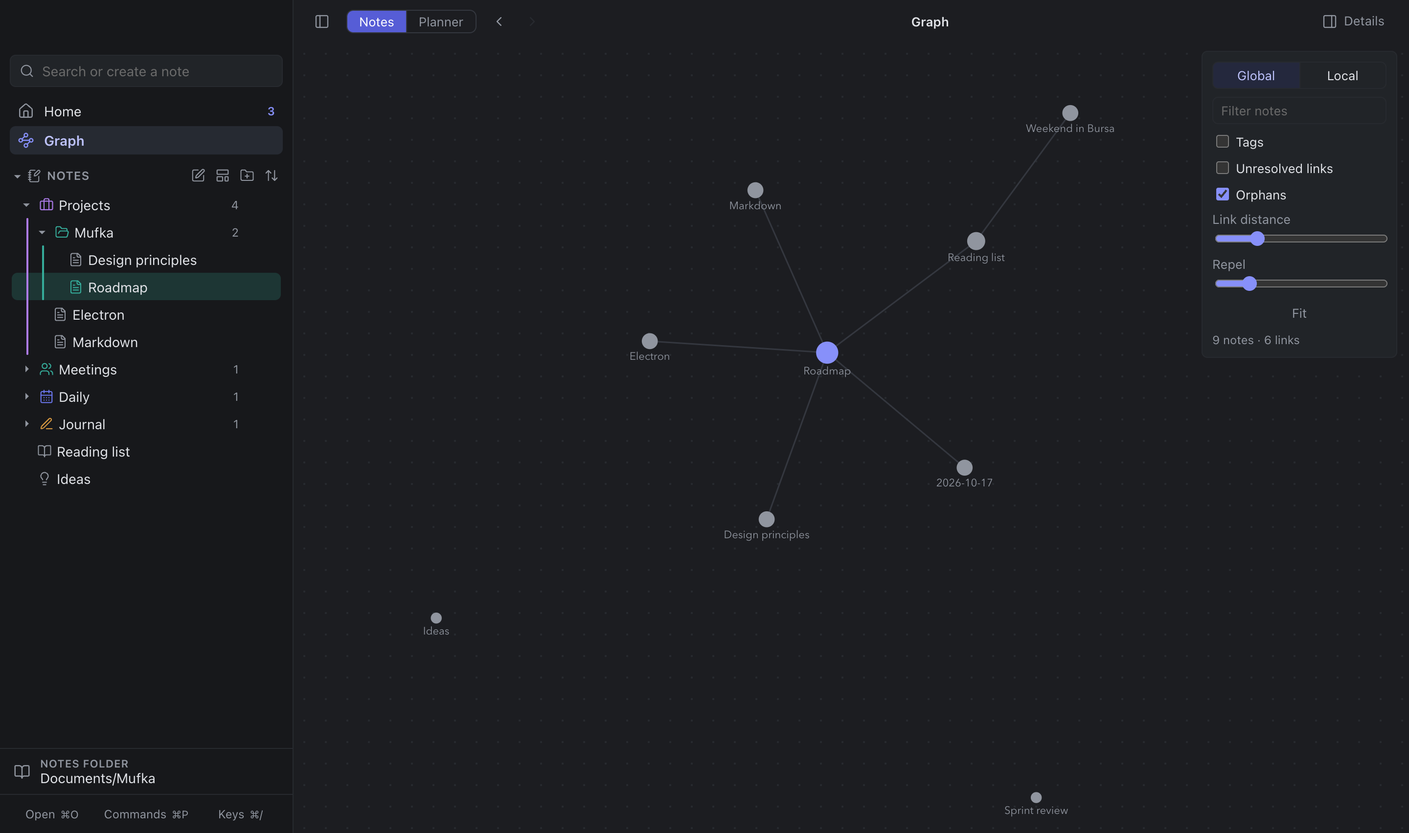
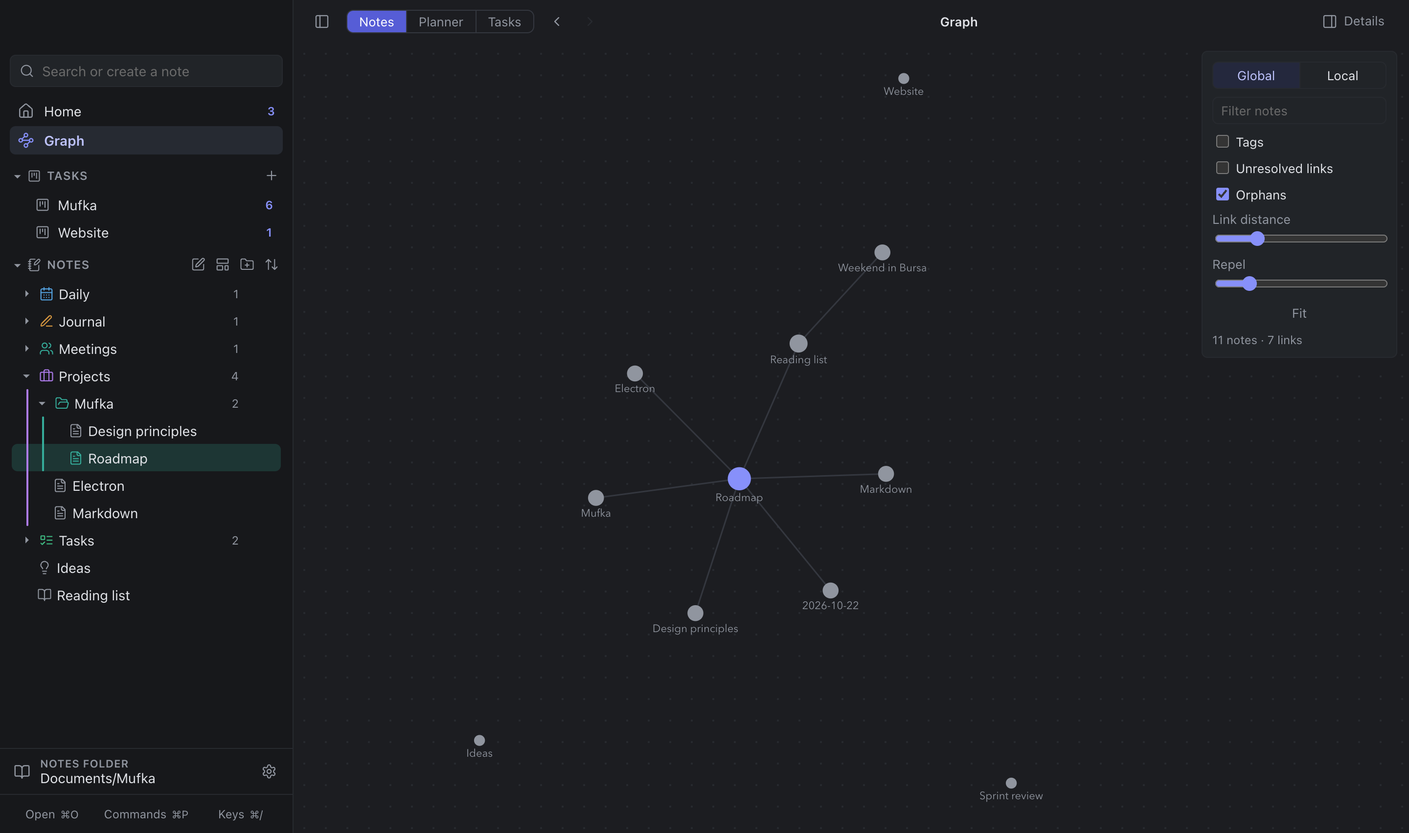
Settings next to the notes folder; new screenshots (1.6.1)
A gear beside the notes folder at the bottom of the sidebar opens
Settings, like Obsidian's vault switcher; Cmd+, still works.

Every README screenshot is taken again from the same made-up data, so
all of them show the current app: the Tasks mode and boards in the
sidebar, the gear. The command palette is shown under Graph.

diff --git a/src/icons.js b/src/icons.js
@@ -5,7 +5,7 @@
 //   icon(name, { size = 16, label }) → <svg>; aria-hidden unless a label is given.
 
 const SVG = 'http://www.w3.org/2000/svg';
-const ICONS = {"today":[["circle",{"cx":"12","cy":"12","r":"4"}],["path",{"d":"M12 2v2"}],["path",{"d":"M12 20v2"}],["path",{"d":"m4.93 4.93 1.41 1.41"}],["path",{"d":"m17.66 17.66 1.41 1.41"}],["path",{"d":"M2 12h2"}],["path",{"d":"M20 12h2"}],["path",{"d":"m6.34 17.66-1.41 1.41"}],["path",{"d":"m19.07 4.93-1.41 1.41"}]],"calendar":[["path",{"d":"M8 2v4"}],["path",{"d":"M16 2v4"}],["rect",{"width":"18","height":"18","x":"3","y":"4","rx":"2"}],["path",{"d":"M3 10h18"}],["path",{"d":"M8 14h.01"}],["path",{"d":"M12 14h.01"}],["path",{"d":"M16 14h.01"}],["path",{"d":"M8 18h.01"}],["path",{"d":"M12 18h.01"}],["path",{"d":"M16 18h.01"}]],"notes":[["path",{"d":"M13.4 2H6a2 2 0 0 0-2 2v16a2 2 0 0 0 2 2h12a2 2 0 0 0 2-2v-7.4"}],["path",{"d":"M2 6h4"}],["path",{"d":"M2 10h4"}],["path",{"d":"M2 14h4"}],["path",{"d":"M2 18h4"}],["path",{"d":"M21.378 5.626a1 1 0 1 0-3.004-3.004l-5.01 5.012a2 2 0 0 0-.506.854l-.837 2.87a.5.5 0 0 0 .62.62l2.87-.837a2 2 0 0 0 .854-.506z"}]],"graph":[["circle",{"cx":"12","cy":"4.5","r":"2.5"}],["path",{"d":"m10.2 6.3-3.9 3.9"}],["circle",{"cx":"4.5","cy":"12","r":"2.5"}],["path",{"d":"M7 12h10"}],["circle",{"cx":"19.5","cy":"12","r":"2.5"}],["path",{"d":"m13.8 17.7 3.9-3.9"}],["circle",{"cx":"12","cy":"19.5","r":"2.5"}]],"bookmark":[["path",{"d":"m19 21-7-4-7 4V5a2 2 0 0 1 2-2h10a2 2 0 0 1 2 2v16z"}]],"search":[["circle",{"cx":"11","cy":"11","r":"8"}],["path",{"d":"m21 21-4.3-4.3"}]],"newNote":[["path",{"d":"M12 3H5a2 2 0 0 0-2 2v14a2 2 0 0 0 2 2h14a2 2 0 0 0 2-2v-7"}],["path",{"d":"M18.375 2.625a1 1 0 0 1 3 3l-9.013 9.014a2 2 0 0 1-.853.505l-2.873.84a.5.5 0 0 1-.62-.62l.84-2.873a2 2 0 0 1 .506-.852z"}]],"newFolder":[["path",{"d":"M12 10v6"}],["path",{"d":"M9 13h6"}],["path",{"d":"M20 20a2 2 0 0 0 2-2V8a2 2 0 0 0-2-2h-7.9a2 2 0 0 1-1.69-.9L9.6 3.9A2 2 0 0 0 7.93 3H4a2 2 0 0 0-2 2v13a2 2 0 0 0 2 2Z"}]],"sidebar":[["rect",{"width":"18","height":"18","x":"3","y":"3","rx":"2"}],["path",{"d":"M9 3v18"}]],"details":[["rect",{"width":"18","height":"18","x":"3","y":"3","rx":"2"}],["path",{"d":"M15 3v18"}]],"back":[["path",{"d":"m15 18-6-6 6-6"}]],"forward":[["path",{"d":"m9 18 6-6-6-6"}]],"copy":[["rect",{"width":"14","height":"14","x":"8","y":"8","rx":"2","ry":"2"}],["path",{"d":"M4 16c-1.1 0-2-.9-2-2V4c0-1.1.9-2 2-2h10c1.1 0 2 .9 2 2"}]],"more":[["circle",{"cx":"12","cy":"12","r":"1"}],["circle",{"cx":"19","cy":"12","r":"1"}],["circle",{"cx":"5","cy":"12","r":"1"}]],"command":[["path",{"d":"M15 6v12a3 3 0 1 0 3-3H6a3 3 0 1 0 3 3V6a3 3 0 1 0-3 3h12a3 3 0 1 0-3-3"}]],"keyboard":[["path",{"d":"M10 8h.01"}],["path",{"d":"M12 12h.01"}],["path",{"d":"M14 8h.01"}],["path",{"d":"M16 12h.01"}],["path",{"d":"M18 8h.01"}],["path",{"d":"M6 8h.01"}],["path",{"d":"M7 16h10"}],["path",{"d":"M8 12h.01"}],["rect",{"width":"20","height":"16","x":"2","y":"4","rx":"2"}]],"folder":[["path",{"d":"M20 20a2 2 0 0 0 2-2V8a2 2 0 0 0-2-2h-7.9a2 2 0 0 1-1.69-.9L9.6 3.9A2 2 0 0 0 7.93 3H4a2 2 0 0 0-2 2v13a2 2 0 0 0 2 2Z"}]],"folderOpen":[["path",{"d":"m6 14 1.5-2.9A2 2 0 0 1 9.24 10H20a2 2 0 0 1 1.94 2.5l-1.54 6a2 2 0 0 1-1.95 1.5H4a2 2 0 0 1-2-2V5a2 2 0 0 1 2-2h3.9a2 2 0 0 1 1.69.9l.81 1.2a2 2 0 0 0 1.67.9H18a2 2 0 0 1 2 2v2"}]],"open":[["path",{"d":"M21 6H3"}],["path",{"d":"M10 12H3"}],["path",{"d":"M10 18H3"}],["circle",{"cx":"17","cy":"15","r":"3"}],["path",{"d":"m21 19-1.9-1.9"}]],"tag":[["line",{"x1":"4","x2":"20","y1":"9","y2":"9"}],["line",{"x1":"4","x2":"20","y1":"15","y2":"15"}],["line",{"x1":"10","x2":"8","y1":"3","y2":"21"}],["line",{"x1":"16","x2":"14","y1":"3","y2":"21"}]],"outline":[["path",{"d":"M21 12h-8"}],["path",{"d":"M21 6H8"}],["path",{"d":"M21 18h-8"}],["path",{"d":"M3 6v4c0 1.1.9 2 2 2h3"}],["path",{"d":"M3 10v6c0 1.1.9 2 2 2h3"}]],"link":[["path",{"d":"M9 17H7A5 5 0 0 1 7 7h2"}],["path",{"d":"M15 7h2a5 5 0 1 1 0 10h-2"}],["line",{"x1":"8","x2":"16","y1":"12","y2":"12"}]],"vault":[["path",{"d":"M12 7v14"}],["path",{"d":"M3 18a1 1 0 0 1-1-1V4a1 1 0 0 1 1-1h5a4 4 0 0 1 4 4 4 4 0 0 1 4-4h5a1 1 0 0 1 1 1v13a1 1 0 0 1-1 1h-6a3 3 0 0 0-3 3 3 3 0 0 0-3-3z"}]],"check":[["path",{"d":"M20 6 9 17l-5-5"}]],"plus":[["path",{"d":"M5 12h14"}],["path",{"d":"M12 5v14"}]],"repeat":[["path",{"d":"m17 2 4 4-4 4"}],["path",{"d":"M3 11v-1a4 4 0 0 1 4-4h14"}],["path",{"d":"m7 22-4-4 4-4"}],["path",{"d":"M21 13v1a4 4 0 0 1-4 4H3"}]],"planDay":[["path",{"d":"M8 2v4"}],["path",{"d":"M16 2v4"}],["path",{"d":"M21 13V6a2 2 0 0 0-2-2H5a2 2 0 0 0-2 2v14a2 2 0 0 0 2 2h8"}],["path",{"d":"M3 10h18"}],["path",{"d":"M16 19h6"}],["path",{"d":"M19 16v6"}]],"arrowRight":[["path",{"d":"M5 12h14"}],["path",{"d":"m12 5 7 7-7 7"}]],"home":[["path",{"d":"M15 21v-8a1 1 0 0 0-1-1h-4a1 1 0 0 0-1 1v8"}],["path",{"d":"M3 10a2 2 0 0 1 .709-1.528l7-5.999a2 2 0 0 1 2.582 0l7 5.999A2 2 0 0 1 21 10v9a2 2 0 0 1-2 2H5a2 2 0 0 1-2-2z"}]],"sort":[["path",{"d":"m21 16-4 4-4-4"}],["path",{"d":"M17 20V4"}],["path",{"d":"m3 8 4-4 4 4"}],["path",{"d":"M7 4v16"}]],"refresh":[["path",{"d":"M3 12a9 9 0 0 1 9-9 9.75 9.75 0 0 1 6.74 2.74L21 8"}],["path",{"d":"M21 3v5h-5"}],["path",{"d":"M21 12a9 9 0 0 1-9 9 9.75 9.75 0 0 1-6.74-2.74L3 16"}],["path",{"d":"M8 16H3v5"}]],"tiFileText":[["path",{"d":"M15 2H6a2 2 0 0 0-2 2v16a2 2 0 0 0 2 2h12a2 2 0 0 0 2-2V7Z"}],["path",{"d":"M14 2v4a2 2 0 0 0 2 2h4"}],["path",{"d":"M10 9H8"}],["path",{"d":"M16 13H8"}],["path",{"d":"M16 17H8"}]],"tiStar":[["path",{"d":"M11.525 2.295a.53.53 0 0 1 .95 0l2.31 4.679a2.123 2.123 0 0 0 1.595 1.16l5.166.756a.53.53 0 0 1 .294.904l-3.736 3.638a2.123 2.123 0 0 0-.611 1.878l.882 5.14a.53.53 0 0 1-.771.56l-4.618-2.428a2.122 2.122 0 0 0-1.973 0L6.396 21.01a.53.53 0 0 1-.77-.56l.881-5.139a2.122 2.122 0 0 0-.611-1.879L2.16 9.795a.53.53 0 0 1 .294-.906l5.165-.755a2.122 2.122 0 0 0 1.597-1.16z"}]],"tiHeart":[["path",{"d":"M19 14c1.49-1.46 3-3.21 3-5.5A5.5 5.5 0 0 0 16.5 3c-1.76 0-3 .5-4.5 2-1.5-1.5-2.74-2-4.5-2A5.5 5.5 0 0 0 2 8.5c0 2.3 1.5 4.05 3 5.5l7 7Z"}]],"tiBriefcase":[["path",{"d":"M16 20V4a2 2 0 0 0-2-2h-4a2 2 0 0 0-2 2v16"}],["rect",{"width":"20","height":"14","x":"2","y":"6","rx":"2"}]],"tiBookOpen":[["path",{"d":"M12 7v14"}],["path",{"d":"M3 18a1 1 0 0 1-1-1V4a1 1 0 0 1 1-1h5a4 4 0 0 1 4 4 4 4 0 0 1 4-4h5a1 1 0 0 1 1 1v13a1 1 0 0 1-1 1h-6a3 3 0 0 0-3 3 3 3 0 0 0-3-3z"}]],"tiLightbulb":[["path",{"d":"M15 14c.2-1 .7-1.7 1.5-2.5 1-.9 1.5-2.2 1.5-3.5A6 6 0 0 0 6 8c0 1 .2 2.2 1.5 3.5.7.7 1.3 1.5 1.5 2.5"}],["path",{"d":"M9 18h6"}],["path",{"d":"M10 22h4"}]],"tiFlag":[["path",{"d":"M4 15s1-1 4-1 5 2 8 2 4-1 4-1V3s-1 1-4 1-5-2-8-2-4 1-4 1z"}],["line",{"x1":"4","x2":"4","y1":"22","y2":"15"}]],"tiUser":[["path",{"d":"M19 21v-2a4 4 0 0 0-4-4H9a4 4 0 0 0-4 4v2"}],["circle",{"cx":"12","cy":"7","r":"4"}]],"tiUsers":[["path",{"d":"M16 21v-2a4 4 0 0 0-4-4H6a4 4 0 0 0-4 4v2"}],["circle",{"cx":"9","cy":"7","r":"4"}],["path",{"d":"M22 21v-2a4 4 0 0 0-3-3.87"}],["path",{"d":"M16 3.13a4 4 0 0 1 0 7.75"}]],"tiCode":[["polyline",{"points":"16 18 22 12 16 6"}],["polyline",{"points":"8 6 2 12 8 18"}]],"tiMusic":[["path",{"d":"M9 18V5l12-2v13"}],["circle",{"cx":"6","cy":"18","r":"3"}],["circle",{"cx":"18","cy":"16","r":"3"}]],"tiCamera":[["path",{"d":"M14.5 4h-5L7 7H4a2 2 0 0 0-2 2v9a2 2 0 0 0 2 2h16a2 2 0 0 0 2-2V9a2 2 0 0 0-2-2h-3l-2.5-3z"}],["circle",{"cx":"12","cy":"13","r":"3"}]],"tiImage":[["rect",{"width":"18","height":"18","x":"3","y":"3","rx":"2","ry":"2"}],["circle",{"cx":"9","cy":"9","r":"2"}],["path",{"d":"m21 15-3.086-3.086a2 2 0 0 0-2.828 0L6 21"}]],"tiGlobe":[["circle",{"cx":"12","cy":"12","r":"10"}],["path",{"d":"M12 2a14.5 14.5 0 0 0 0 20 14.5 14.5 0 0 0 0-20"}],["path",{"d":"M2 12h20"}]],"tiMapPin":[["path",{"d":"M20 10c0 4.993-5.539 10.193-7.399 11.799a1 1 0 0 1-1.202 0C9.539 20.193 4 14.993 4 10a8 8 0 0 1 16 0"}],["circle",{"cx":"12","cy":"10","r":"3"}]],"tiPlane":[["path",{"d":"M17.8 19.2 16 11l3.5-3.5C21 6 21.5 4 21 3c-1-.5-3 0-4.5 1.5L13 8 4.8 6.2c-.5-.1-.9.1-1.1.5l-.3.5c-.2.5-.1 1 .3 1.3L9 12l-2 3H4l-1 1 3 2 2 3 1-1v-3l3-2 3.5 5.3c.3.4.8.5 1.3.3l.5-.2c.4-.3.6-.7.5-1.2z"}]],"tiCoffee":[["path",{"d":"M10 2v2"}],["path",{"d":"M14 2v2"}],["path",{"d":"M16 8a1 1 0 0 1 1 1v8a4 4 0 0 1-4 4H7a4 4 0 0 1-4-4V9a1 1 0 0 1 1-1h14a4 4 0 1 1 0 8h-1"}],["path",{"d":"M6 2v2"}]],"tiUtensils":[["path",{"d":"M3 2v7c0 1.1.9 2 2 2h4a2 2 0 0 0 2-2V2"}],["path",{"d":"M7 2v20"}],["path",{"d":"M21 15V2a5 5 0 0 0-5 5v6c0 1.1.9 2 2 2h3Zm0 0v7"}]],"tiDumbbell":[["path",{"d":"M14.4 14.4 9.6 9.6"}],["path",{"d":"M18.657 21.485a2 2 0 1 1-2.829-2.828l-1.767 1.768a2 2 0 1 1-2.829-2.829l6.364-6.364a2 2 0 1 1 2.829 2.829l-1.768 1.767a2 2 0 1 1 2.828 2.829z"}],["path",{"d":"m21.5 21.5-1.4-1.4"}],["path",{"d":"M3.9 3.9 2.5 2.5"}],["path",{"d":"M6.404 12.768a2 2 0 1 1-2.829-2.829l1.768-1.767a2 2 0 1 1-2.828-2.829l2.828-2.828a2 2 0 1 1 2.829 2.828l1.767-1.768a2 2 0 1 1 2.829 2.829z"}]],"tiGraduationCap":[["path",{"d":"M21.42 10.922a1 1 0 0 0-.019-1.838L12.83 5.18a2 2 0 0 0-1.66 0L2.6 9.08a1 1 0 0 0 0 1.832l8.57 3.908a2 2 0 0 0 1.66 0z"}],["path",{"d":"M22 10v6"}],["path",{"d":"M6 12.5V16a6 3 0 0 0 12 0v-3.5"}]],"tiWallet":[["path",{"d":"M19 7V4a1 1 0 0 0-1-1H5a2 2 0 0 0 0 4h15a1 1 0 0 1 1 1v4h-3a2 2 0 0 0 0 4h3a1 1 0 0 0 1-1v-2a1 1 0 0 0-1-1"}],["path",{"d":"M3 5v14a2 2 0 0 0 2 2h15a1 1 0 0 0 1-1v-4"}]],"tiShoppingCart":[["circle",{"cx":"8","cy":"21","r":"1"}],["circle",{"cx":"19","cy":"21","r":"1"}],["path",{"d":"M2.05 2.05h2l2.66 12.42a2 2 0 0 0 2 1.58h9.78a2 2 0 0 0 1.95-1.57l1.65-7.43H5.12"}]],"tiRocket":[["path",{"d":"M4.5 16.5c-1.5 1.26-2 5-2 5s3.74-.5 5-2c.71-.84.7-2.13-.09-2.91a2.18 2.18 0 0 0-2.91-.09z"}],["path",{"d":"m12 15-3-3a22 22 0 0 1 2-3.95A12.88 12.88 0 0 1 22 2c0 2.72-.78 7.5-6 11a22.35 22.35 0 0 1-4 2z"}],["path",{"d":"M9 12H4s.55-3.03 2-4c1.62-1.08 5 0 5 0"}],["path",{"d":"M12 15v5s3.03-.55 4-2c1.08-1.62 0-5 0-5"}]],"tiTarget":[["circle",{"cx":"12","cy":"12","r":"10"}],["circle",{"cx":"12","cy":"12","r":"6"}],["circle",{"cx":"12","cy":"12","r":"2"}]],"tiArchive":[["rect",{"width":"20","height":"5","x":"2","y":"3","rx":"1"}],["path",{"d":"M4 8v11a2 2 0 0 0 2 2h12a2 2 0 0 0 2-2V8"}],["path",{"d":"M10 12h4"}]],"tiInbox":[["polyline",{"points":"22 12 16 12 14 15 10 15 8 12 2 12"}],["path",{"d":"M5.45 5.11 2 12v6a2 2 0 0 0 2 2h16a2 2 0 0 0 2-2v-6l-3.45-6.89A2 2 0 0 0 16.76 4H7.24a2 2 0 0 0-1.79 1.11z"}]],"tiPenLine":[["path",{"d":"M12 20h9"}],["path",{"d":"M16.376 3.622a1 1 0 0 1 3.002 3.002L7.368 18.635a2 2 0 0 1-.855.506l-2.872.838a.5.5 0 0 1-.62-.62l.838-2.872a2 2 0 0 1 .506-.854z"}]],"tiSparkles":[["path",{"d":"M9.937 15.5A2 2 0 0 0 8.5 14.063l-6.135-1.582a.5.5 0 0 1 0-.962L8.5 9.936A2 2 0 0 0 9.937 8.5l1.582-6.135a.5.5 0 0 1 .963 0L14.063 8.5A2 2 0 0 0 15.5 9.937l6.135 1.581a.5.5 0 0 1 0 .964L15.5 14.063a2 2 0 0 0-1.437 1.437l-1.582 6.135a.5.5 0 0 1-.963 0z"}],["path",{"d":"M20 3v4"}],["path",{"d":"M22 5h-4"}],["path",{"d":"M4 17v2"}],["path",{"d":"M5 18H3"}]],"tiLeaf":[["path",{"d":"M11 20A7 7 0 0 1 9.8 6.1C15.5 5 17 4.48 19 2c1 2 2 4.18 2 8 0 5.5-4.78 10-10 10Z"}],["path",{"d":"M2 21c0-3 1.85-5.36 5.08-6C9.5 14.52 12 13 13 12"}]],"tiFlame":[["path",{"d":"M8.5 14.5A2.5 2.5 0 0 0 11 12c0-1.38-.5-2-1-3-1.072-2.143-.224-4.054 2-6 .5 2.5 2 4.9 4 6.5 2 1.6 3 3.5 3 5.5a7 7 0 1 1-14 0c0-1.153.433-2.294 1-3a2.5 2.5 0 0 0 2.5 2.5z"}]],"tiMic":[["path",{"d":"M12 2a3 3 0 0 0-3 3v7a3 3 0 0 0 6 0V5a3 3 0 0 0-3-3Z"}],["path",{"d":"M19 10v2a7 7 0 0 1-14 0v-2"}],["line",{"x1":"12","x2":"12","y1":"19","y2":"22"}]],"tiFilm":[["rect",{"width":"18","height":"18","x":"3","y":"3","rx":"2"}],["path",{"d":"M7 3v18"}],["path",{"d":"M3 7.5h4"}],["path",{"d":"M3 12h18"}],["path",{"d":"M3 16.5h4"}],["path",{"d":"M17 3v18"}],["path",{"d":"M17 7.5h4"}],["path",{"d":"M17 16.5h4"}]],"tiGamepad2":[["line",{"x1":"6","x2":"10","y1":"11","y2":"11"}],["line",{"x1":"8","x2":"8","y1":"9","y2":"13"}],["line",{"x1":"15","x2":"15.01","y1":"12","y2":"12"}],["line",{"x1":"18","x2":"18.01","y1":"10","y2":"10"}],["path",{"d":"M17.32 5H6.68a4 4 0 0 0-3.978 3.59c-.006.052-.01.101-.017.152C2.604 9.416 2 14.456 2 16a3 3 0 0 0 3 3c1 0 1.5-.5 2-1l1.414-1.414A2 2 0 0 1 9.828 16h4.344a2 2 0 0 1 1.414.586L17 18c.5.5 1 1 2 1a3 3 0 0 0 3-3c0-1.545-.604-6.584-.685-7.258-.007-.05-.011-.1-.017-.151A4 4 0 0 0 17.32 5z"}]],"tiPalette":[["circle",{"cx":"13.5","cy":"6.5","r":".5","fill":"currentColor"}],["circle",{"cx":"17.5","cy":"10.5","r":".5","fill":"currentColor"}],["circle",{"cx":"8.5","cy":"7.5","r":".5","fill":"currentColor"}],["circle",{"cx":"6.5","cy":"12.5","r":".5","fill":"currentColor"}],["path",{"d":"M12 2C6.5 2 2 6.5 2 12s4.5 10 10 10c.926 0 1.648-.746 1.648-1.688 0-.437-.18-.835-.437-1.125-.29-.289-.438-.652-.438-1.125a1.64 1.64 0 0 1 1.668-1.668h1.996c3.051 0 5.555-2.503 5.555-5.554C21.965 6.012 17.461 2 12 2z"}]],"tiCalendarDays":[["path",{"d":"M8 2v4"}],["path",{"d":"M16 2v4"}],["rect",{"width":"18","height":"18","x":"3","y":"4","rx":"2"}],["path",{"d":"M3 10h18"}],["path",{"d":"M8 14h.01"}],["path",{"d":"M12 14h.01"}],["path",{"d":"M16 14h.01"}],["path",{"d":"M8 18h.01"}],["path",{"d":"M12 18h.01"}],["path",{"d":"M16 18h.01"}]],"tiCircleCheck":[["circle",{"cx":"12","cy":"12","r":"10"}],["path",{"d":"m9 12 2 2 4-4"}]],"tiHouse":[["path",{"d":"M15 21v-8a1 1 0 0 0-1-1h-4a1 1 0 0 0-1 1v8"}],["path",{"d":"M3 10a2 2 0 0 1 .709-1.528l7-5.999a2 2 0 0 1 2.582 0l7 5.999A2 2 0 0 1 21 10v9a2 2 0 0 1-2 2H5a2 2 0 0 1-2-2z"}]],"tiListTodo":[["rect",{"x":"3","y":"5","width":"6","height":"6","rx":"1"}],["path",{"d":"m3 17 2 2 4-4"}],["path",{"d":"M13 6h8"}],["path",{"d":"M13 12h8"}],["path",{"d":"M13 18h8"}]],"tiBrain":[["path",{"d":"M12 5a3 3 0 1 0-5.997.125 4 4 0 0 0-2.526 5.77 4 4 0 0 0 .556 6.588A4 4 0 1 0 12 18Z"}],["path",{"d":"M12 5a3 3 0 1 1 5.997.125 4 4 0 0 1 2.526 5.77 4 4 0 0 1-.556 6.588A4 4 0 1 1 12 18Z"}],["path",{"d":"M15 13a4.5 4.5 0 0 1-3-4 4.5 4.5 0 0 1-3 4"}],["path",{"d":"M17.599 6.5a3 3 0 0 0 .399-1.375"}],["path",{"d":"M6.003 5.125A3 3 0 0 0 6.401 6.5"}],["path",{"d":"M3.477 10.896a4 4 0 0 1 .585-.396"}],["path",{"d":"M19.938 10.5a4 4 0 0 1 .585.396"}],["path",{"d":"M6 18a4 4 0 0 1-1.967-.516"}],["path",{"d":"M19.967 17.484A4 4 0 0 1 18 18"}]],"tiSun":[["circle",{"cx":"12","cy":"12","r":"4"}],["path",{"d":"M12 2v2"}],["path",{"d":"M12 20v2"}],["path",{"d":"m4.93 4.93 1.41 1.41"}],["path",{"d":"m17.66 17.66 1.41 1.41"}],["path",{"d":"M2 12h2"}],["path",{"d":"M20 12h2"}],["path",{"d":"m6.34 17.66-1.41 1.41"}],["path",{"d":"m19.07 4.93-1.41 1.41"}]],"kanban":[["rect",{"width":"18","height":"18","x":"3","y":"3","rx":"2"}],["path",{"d":"M8 7v7"}],["path",{"d":"M12 7v4"}],["path",{"d":"M16 7v9"}]],"template":[["rect",{"width":"18","height":"7","x":"3","y":"3","rx":"1"}],["rect",{"width":"9","height":"7","x":"3","y":"14","rx":"1"}],["rect",{"width":"5","height":"7","x":"16","y":"14","rx":"1"}]]};
+const ICONS = {"today":[["circle",{"cx":"12","cy":"12","r":"4"}],["path",{"d":"M12 2v2"}],["path",{"d":"M12 20v2"}],["path",{"d":"m4.93 4.93 1.41 1.41"}],["path",{"d":"m17.66 17.66 1.41 1.41"}],["path",{"d":"M2 12h2"}],["path",{"d":"M20 12h2"}],["path",{"d":"m6.34 17.66-1.41 1.41"}],["path",{"d":"m19.07 4.93-1.41 1.41"}]],"calendar":[["path",{"d":"M8 2v4"}],["path",{"d":"M16 2v4"}],["rect",{"width":"18","height":"18","x":"3","y":"4","rx":"2"}],["path",{"d":"M3 10h18"}],["path",{"d":"M8 14h.01"}],["path",{"d":"M12 14h.01"}],["path",{"d":"M16 14h.01"}],["path",{"d":"M8 18h.01"}],["path",{"d":"M12 18h.01"}],["path",{"d":"M16 18h.01"}]],"notes":[["path",{"d":"M13.4 2H6a2 2 0 0 0-2 2v16a2 2 0 0 0 2 2h12a2 2 0 0 0 2-2v-7.4"}],["path",{"d":"M2 6h4"}],["path",{"d":"M2 10h4"}],["path",{"d":"M2 14h4"}],["path",{"d":"M2 18h4"}],["path",{"d":"M21.378 5.626a1 1 0 1 0-3.004-3.004l-5.01 5.012a2 2 0 0 0-.506.854l-.837 2.87a.5.5 0 0 0 .62.62l2.87-.837a2 2 0 0 0 .854-.506z"}]],"graph":[["circle",{"cx":"12","cy":"4.5","r":"2.5"}],["path",{"d":"m10.2 6.3-3.9 3.9"}],["circle",{"cx":"4.5","cy":"12","r":"2.5"}],["path",{"d":"M7 12h10"}],["circle",{"cx":"19.5","cy":"12","r":"2.5"}],["path",{"d":"m13.8 17.7 3.9-3.9"}],["circle",{"cx":"12","cy":"19.5","r":"2.5"}]],"bookmark":[["path",{"d":"m19 21-7-4-7 4V5a2 2 0 0 1 2-2h10a2 2 0 0 1 2 2v16z"}]],"search":[["circle",{"cx":"11","cy":"11","r":"8"}],["path",{"d":"m21 21-4.3-4.3"}]],"newNote":[["path",{"d":"M12 3H5a2 2 0 0 0-2 2v14a2 2 0 0 0 2 2h14a2 2 0 0 0 2-2v-7"}],["path",{"d":"M18.375 2.625a1 1 0 0 1 3 3l-9.013 9.014a2 2 0 0 1-.853.505l-2.873.84a.5.5 0 0 1-.62-.62l.84-2.873a2 2 0 0 1 .506-.852z"}]],"newFolder":[["path",{"d":"M12 10v6"}],["path",{"d":"M9 13h6"}],["path",{"d":"M20 20a2 2 0 0 0 2-2V8a2 2 0 0 0-2-2h-7.9a2 2 0 0 1-1.69-.9L9.6 3.9A2 2 0 0 0 7.93 3H4a2 2 0 0 0-2 2v13a2 2 0 0 0 2 2Z"}]],"sidebar":[["rect",{"width":"18","height":"18","x":"3","y":"3","rx":"2"}],["path",{"d":"M9 3v18"}]],"details":[["rect",{"width":"18","height":"18","x":"3","y":"3","rx":"2"}],["path",{"d":"M15 3v18"}]],"back":[["path",{"d":"m15 18-6-6 6-6"}]],"forward":[["path",{"d":"m9 18 6-6-6-6"}]],"copy":[["rect",{"width":"14","height":"14","x":"8","y":"8","rx":"2","ry":"2"}],["path",{"d":"M4 16c-1.1 0-2-.9-2-2V4c0-1.1.9-2 2-2h10c1.1 0 2 .9 2 2"}]],"more":[["circle",{"cx":"12","cy":"12","r":"1"}],["circle",{"cx":"19","cy":"12","r":"1"}],["circle",{"cx":"5","cy":"12","r":"1"}]],"command":[["path",{"d":"M15 6v12a3 3 0 1 0 3-3H6a3 3 0 1 0 3 3V6a3 3 0 1 0-3 3h12a3 3 0 1 0-3-3"}]],"keyboard":[["path",{"d":"M10 8h.01"}],["path",{"d":"M12 12h.01"}],["path",{"d":"M14 8h.01"}],["path",{"d":"M16 12h.01"}],["path",{"d":"M18 8h.01"}],["path",{"d":"M6 8h.01"}],["path",{"d":"M7 16h10"}],["path",{"d":"M8 12h.01"}],["rect",{"width":"20","height":"16","x":"2","y":"4","rx":"2"}]],"folder":[["path",{"d":"M20 20a2 2 0 0 0 2-2V8a2 2 0 0 0-2-2h-7.9a2 2 0 0 1-1.69-.9L9.6 3.9A2 2 0 0 0 7.93 3H4a2 2 0 0 0-2 2v13a2 2 0 0 0 2 2Z"}]],"folderOpen":[["path",{"d":"m6 14 1.5-2.9A2 2 0 0 1 9.24 10H20a2 2 0 0 1 1.94 2.5l-1.54 6a2 2 0 0 1-1.95 1.5H4a2 2 0 0 1-2-2V5a2 2 0 0 1 2-2h3.9a2 2 0 0 1 1.69.9l.81 1.2a2 2 0 0 0 1.67.9H18a2 2 0 0 1 2 2v2"}]],"open":[["path",{"d":"M21 6H3"}],["path",{"d":"M10 12H3"}],["path",{"d":"M10 18H3"}],["circle",{"cx":"17","cy":"15","r":"3"}],["path",{"d":"m21 19-1.9-1.9"}]],"tag":[["line",{"x1":"4","x2":"20","y1":"9","y2":"9"}],["line",{"x1":"4","x2":"20","y1":"15","y2":"15"}],["line",{"x1":"10","x2":"8","y1":"3","y2":"21"}],["line",{"x1":"16","x2":"14","y1":"3","y2":"21"}]],"outline":[["path",{"d":"M21 12h-8"}],["path",{"d":"M21 6H8"}],["path",{"d":"M21 18h-8"}],["path",{"d":"M3 6v4c0 1.1.9 2 2 2h3"}],["path",{"d":"M3 10v6c0 1.1.9 2 2 2h3"}]],"link":[["path",{"d":"M9 17H7A5 5 0 0 1 7 7h2"}],["path",{"d":"M15 7h2a5 5 0 1 1 0 10h-2"}],["line",{"x1":"8","x2":"16","y1":"12","y2":"12"}]],"vault":[["path",{"d":"M12 7v14"}],["path",{"d":"M3 18a1 1 0 0 1-1-1V4a1 1 0 0 1 1-1h5a4 4 0 0 1 4 4 4 4 0 0 1 4-4h5a1 1 0 0 1 1 1v13a1 1 0 0 1-1 1h-6a3 3 0 0 0-3 3 3 3 0 0 0-3-3z"}]],"check":[["path",{"d":"M20 6 9 17l-5-5"}]],"plus":[["path",{"d":"M5 12h14"}],["path",{"d":"M12 5v14"}]],"repeat":[["path",{"d":"m17 2 4 4-4 4"}],["path",{"d":"M3 11v-1a4 4 0 0 1 4-4h14"}],["path",{"d":"m7 22-4-4 4-4"}],["path",{"d":"M21 13v1a4 4 0 0 1-4 4H3"}]],"planDay":[["path",{"d":"M8 2v4"}],["path",{"d":"M16 2v4"}],["path",{"d":"M21 13V6a2 2 0 0 0-2-2H5a2 2 0 0 0-2 2v14a2 2 0 0 0 2 2h8"}],["path",{"d":"M3 10h18"}],["path",{"d":"M16 19h6"}],["path",{"d":"M19 16v6"}]],"arrowRight":[["path",{"d":"M5 12h14"}],["path",{"d":"m12 5 7 7-7 7"}]],"home":[["path",{"d":"M15 21v-8a1 1 0 0 0-1-1h-4a1 1 0 0 0-1 1v8"}],["path",{"d":"M3 10a2 2 0 0 1 .709-1.528l7-5.999a2 2 0 0 1 2.582 0l7 5.999A2 2 0 0 1 21 10v9a2 2 0 0 1-2 2H5a2 2 0 0 1-2-2z"}]],"sort":[["path",{"d":"m21 16-4 4-4-4"}],["path",{"d":"M17 20V4"}],["path",{"d":"m3 8 4-4 4 4"}],["path",{"d":"M7 4v16"}]],"refresh":[["path",{"d":"M3 12a9 9 0 0 1 9-9 9.75 9.75 0 0 1 6.74 2.74L21 8"}],["path",{"d":"M21 3v5h-5"}],["path",{"d":"M21 12a9 9 0 0 1-9 9 9.75 9.75 0 0 1-6.74-2.74L3 16"}],["path",{"d":"M8 16H3v5"}]],"tiFileText":[["path",{"d":"M15 2H6a2 2 0 0 0-2 2v16a2 2 0 0 0 2 2h12a2 2 0 0 0 2-2V7Z"}],["path",{"d":"M14 2v4a2 2 0 0 0 2 2h4"}],["path",{"d":"M10 9H8"}],["path",{"d":"M16 13H8"}],["path",{"d":"M16 17H8"}]],"tiStar":[["path",{"d":"M11.525 2.295a.53.53 0 0 1 .95 0l2.31 4.679a2.123 2.123 0 0 0 1.595 1.16l5.166.756a.53.53 0 0 1 .294.904l-3.736 3.638a2.123 2.123 0 0 0-.611 1.878l.882 5.14a.53.53 0 0 1-.771.56l-4.618-2.428a2.122 2.122 0 0 0-1.973 0L6.396 21.01a.53.53 0 0 1-.77-.56l.881-5.139a2.122 2.122 0 0 0-.611-1.879L2.16 9.795a.53.53 0 0 1 .294-.906l5.165-.755a2.122 2.122 0 0 0 1.597-1.16z"}]],"tiHeart":[["path",{"d":"M19 14c1.49-1.46 3-3.21 3-5.5A5.5 5.5 0 0 0 16.5 3c-1.76 0-3 .5-4.5 2-1.5-1.5-2.74-2-4.5-2A5.5 5.5 0 0 0 2 8.5c0 2.3 1.5 4.05 3 5.5l7 7Z"}]],"tiBriefcase":[["path",{"d":"M16 20V4a2 2 0 0 0-2-2h-4a2 2 0 0 0-2 2v16"}],["rect",{"width":"20","height":"14","x":"2","y":"6","rx":"2"}]],"tiBookOpen":[["path",{"d":"M12 7v14"}],["path",{"d":"M3 18a1 1 0 0 1-1-1V4a1 1 0 0 1 1-1h5a4 4 0 0 1 4 4 4 4 0 0 1 4-4h5a1 1 0 0 1 1 1v13a1 1 0 0 1-1 1h-6a3 3 0 0 0-3 3 3 3 0 0 0-3-3z"}]],"tiLightbulb":[["path",{"d":"M15 14c.2-1 .7-1.7 1.5-2.5 1-.9 1.5-2.2 1.5-3.5A6 6 0 0 0 6 8c0 1 .2 2.2 1.5 3.5.7.7 1.3 1.5 1.5 2.5"}],["path",{"d":"M9 18h6"}],["path",{"d":"M10 22h4"}]],"tiFlag":[["path",{"d":"M4 15s1-1 4-1 5 2 8 2 4-1 4-1V3s-1 1-4 1-5-2-8-2-4 1-4 1z"}],["line",{"x1":"4","x2":"4","y1":"22","y2":"15"}]],"tiUser":[["path",{"d":"M19 21v-2a4 4 0 0 0-4-4H9a4 4 0 0 0-4 4v2"}],["circle",{"cx":"12","cy":"7","r":"4"}]],"tiUsers":[["path",{"d":"M16 21v-2a4 4 0 0 0-4-4H6a4 4 0 0 0-4 4v2"}],["circle",{"cx":"9","cy":"7","r":"4"}],["path",{"d":"M22 21v-2a4 4 0 0 0-3-3.87"}],["path",{"d":"M16 3.13a4 4 0 0 1 0 7.75"}]],"tiCode":[["polyline",{"points":"16 18 22 12 16 6"}],["polyline",{"points":"8 6 2 12 8 18"}]],"tiMusic":[["path",{"d":"M9 18V5l12-2v13"}],["circle",{"cx":"6","cy":"18","r":"3"}],["circle",{"cx":"18","cy":"16","r":"3"}]],"tiCamera":[["path",{"d":"M14.5 4h-5L7 7H4a2 2 0 0 0-2 2v9a2 2 0 0 0 2 2h16a2 2 0 0 0 2-2V9a2 2 0 0 0-2-2h-3l-2.5-3z"}],["circle",{"cx":"12","cy":"13","r":"3"}]],"tiImage":[["rect",{"width":"18","height":"18","x":"3","y":"3","rx":"2","ry":"2"}],["circle",{"cx":"9","cy":"9","r":"2"}],["path",{"d":"m21 15-3.086-3.086a2 2 0 0 0-2.828 0L6 21"}]],"tiGlobe":[["circle",{"cx":"12","cy":"12","r":"10"}],["path",{"d":"M12 2a14.5 14.5 0 0 0 0 20 14.5 14.5 0 0 0 0-20"}],["path",{"d":"M2 12h20"}]],"tiMapPin":[["path",{"d":"M20 10c0 4.993-5.539 10.193-7.399 11.799a1 1 0 0 1-1.202 0C9.539 20.193 4 14.993 4 10a8 8 0 0 1 16 0"}],["circle",{"cx":"12","cy":"10","r":"3"}]],"tiPlane":[["path",{"d":"M17.8 19.2 16 11l3.5-3.5C21 6 21.5 4 21 3c-1-.5-3 0-4.5 1.5L13 8 4.8 6.2c-.5-.1-.9.1-1.1.5l-.3.5c-.2.5-.1 1 .3 1.3L9 12l-2 3H4l-1 1 3 2 2 3 1-1v-3l3-2 3.5 5.3c.3.4.8.5 1.3.3l.5-.2c.4-.3.6-.7.5-1.2z"}]],"tiCoffee":[["path",{"d":"M10 2v2"}],["path",{"d":"M14 2v2"}],["path",{"d":"M16 8a1 1 0 0 1 1 1v8a4 4 0 0 1-4 4H7a4 4 0 0 1-4-4V9a1 1 0 0 1 1-1h14a4 4 0 1 1 0 8h-1"}],["path",{"d":"M6 2v2"}]],"tiUtensils":[["path",{"d":"M3 2v7c0 1.1.9 2 2 2h4a2 2 0 0 0 2-2V2"}],["path",{"d":"M7 2v20"}],["path",{"d":"M21 15V2a5 5 0 0 0-5 5v6c0 1.1.9 2 2 2h3Zm0 0v7"}]],"tiDumbbell":[["path",{"d":"M14.4 14.4 9.6 9.6"}],["path",{"d":"M18.657 21.485a2 2 0 1 1-2.829-2.828l-1.767 1.768a2 2 0 1 1-2.829-2.829l6.364-6.364a2 2 0 1 1 2.829 2.829l-1.768 1.767a2 2 0 1 1 2.828 2.829z"}],["path",{"d":"m21.5 21.5-1.4-1.4"}],["path",{"d":"M3.9 3.9 2.5 2.5"}],["path",{"d":"M6.404 12.768a2 2 0 1 1-2.829-2.829l1.768-1.767a2 2 0 1 1-2.828-2.829l2.828-2.828a2 2 0 1 1 2.829 2.828l1.767-1.768a2 2 0 1 1 2.829 2.829z"}]],"tiGraduationCap":[["path",{"d":"M21.42 10.922a1 1 0 0 0-.019-1.838L12.83 5.18a2 2 0 0 0-1.66 0L2.6 9.08a1 1 0 0 0 0 1.832l8.57 3.908a2 2 0 0 0 1.66 0z"}],["path",{"d":"M22 10v6"}],["path",{"d":"M6 12.5V16a6 3 0 0 0 12 0v-3.5"}]],"tiWallet":[["path",{"d":"M19 7V4a1 1 0 0 0-1-1H5a2 2 0 0 0 0 4h15a1 1 0 0 1 1 1v4h-3a2 2 0 0 0 0 4h3a1 1 0 0 0 1-1v-2a1 1 0 0 0-1-1"}],["path",{"d":"M3 5v14a2 2 0 0 0 2 2h15a1 1 0 0 0 1-1v-4"}]],"tiShoppingCart":[["circle",{"cx":"8","cy":"21","r":"1"}],["circle",{"cx":"19","cy":"21","r":"1"}],["path",{"d":"M2.05 2.05h2l2.66 12.42a2 2 0 0 0 2 1.58h9.78a2 2 0 0 0 1.95-1.57l1.65-7.43H5.12"}]],"tiRocket":[["path",{"d":"M4.5 16.5c-1.5 1.26-2 5-2 5s3.74-.5 5-2c.71-.84.7-2.13-.09-2.91a2.18 2.18 0 0 0-2.91-.09z"}],["path",{"d":"m12 15-3-3a22 22 0 0 1 2-3.95A12.88 12.88 0 0 1 22 2c0 2.72-.78 7.5-6 11a22.35 22.35 0 0 1-4 2z"}],["path",{"d":"M9 12H4s.55-3.03 2-4c1.62-1.08 5 0 5 0"}],["path",{"d":"M12 15v5s3.03-.55 4-2c1.08-1.62 0-5 0-5"}]],"tiTarget":[["circle",{"cx":"12","cy":"12","r":"10"}],["circle",{"cx":"12","cy":"12","r":"6"}],["circle",{"cx":"12","cy":"12","r":"2"}]],"tiArchive":[["rect",{"width":"20","height":"5","x":"2","y":"3","rx":"1"}],["path",{"d":"M4 8v11a2 2 0 0 0 2 2h12a2 2 0 0 0 2-2V8"}],["path",{"d":"M10 12h4"}]],"tiInbox":[["polyline",{"points":"22 12 16 12 14 15 10 15 8 12 2 12"}],["path",{"d":"M5.45 5.11 2 12v6a2 2 0 0 0 2 2h16a2 2 0 0 0 2-2v-6l-3.45-6.89A2 2 0 0 0 16.76 4H7.24a2 2 0 0 0-1.79 1.11z"}]],"tiPenLine":[["path",{"d":"M12 20h9"}],["path",{"d":"M16.376 3.622a1 1 0 0 1 3.002 3.002L7.368 18.635a2 2 0 0 1-.855.506l-2.872.838a.5.5 0 0 1-.62-.62l.838-2.872a2 2 0 0 1 .506-.854z"}]],"tiSparkles":[["path",{"d":"M9.937 15.5A2 2 0 0 0 8.5 14.063l-6.135-1.582a.5.5 0 0 1 0-.962L8.5 9.936A2 2 0 0 0 9.937 8.5l1.582-6.135a.5.5 0 0 1 .963 0L14.063 8.5A2 2 0 0 0 15.5 9.937l6.135 1.581a.5.5 0 0 1 0 .964L15.5 14.063a2 2 0 0 0-1.437 1.437l-1.582 6.135a.5.5 0 0 1-.963 0z"}],["path",{"d":"M20 3v4"}],["path",{"d":"M22 5h-4"}],["path",{"d":"M4 17v2"}],["path",{"d":"M5 18H3"}]],"tiLeaf":[["path",{"d":"M11 20A7 7 0 0 1 9.8 6.1C15.5 5 17 4.48 19 2c1 2 2 4.18 2 8 0 5.5-4.78 10-10 10Z"}],["path",{"d":"M2 21c0-3 1.85-5.36 5.08-6C9.5 14.52 12 13 13 12"}]],"tiFlame":[["path",{"d":"M8.5 14.5A2.5 2.5 0 0 0 11 12c0-1.38-.5-2-1-3-1.072-2.143-.224-4.054 2-6 .5 2.5 2 4.9 4 6.5 2 1.6 3 3.5 3 5.5a7 7 0 1 1-14 0c0-1.153.433-2.294 1-3a2.5 2.5 0 0 0 2.5 2.5z"}]],"tiMic":[["path",{"d":"M12 2a3 3 0 0 0-3 3v7a3 3 0 0 0 6 0V5a3 3 0 0 0-3-3Z"}],["path",{"d":"M19 10v2a7 7 0 0 1-14 0v-2"}],["line",{"x1":"12","x2":"12","y1":"19","y2":"22"}]],"tiFilm":[["rect",{"width":"18","height":"18","x":"3","y":"3","rx":"2"}],["path",{"d":"M7 3v18"}],["path",{"d":"M3 7.5h4"}],["path",{"d":"M3 12h18"}],["path",{"d":"M3 16.5h4"}],["path",{"d":"M17 3v18"}],["path",{"d":"M17 7.5h4"}],["path",{"d":"M17 16.5h4"}]],"tiGamepad2":[["line",{"x1":"6","x2":"10","y1":"11","y2":"11"}],["line",{"x1":"8","x2":"8","y1":"9","y2":"13"}],["line",{"x1":"15","x2":"15.01","y1":"12","y2":"12"}],["line",{"x1":"18","x2":"18.01","y1":"10","y2":"10"}],["path",{"d":"M17.32 5H6.68a4 4 0 0 0-3.978 3.59c-.006.052-.01.101-.017.152C2.604 9.416 2 14.456 2 16a3 3 0 0 0 3 3c1 0 1.5-.5 2-1l1.414-1.414A2 2 0 0 1 9.828 16h4.344a2 2 0 0 1 1.414.586L17 18c.5.5 1 1 2 1a3 3 0 0 0 3-3c0-1.545-.604-6.584-.685-7.258-.007-.05-.011-.1-.017-.151A4 4 0 0 0 17.32 5z"}]],"tiPalette":[["circle",{"cx":"13.5","cy":"6.5","r":".5","fill":"currentColor"}],["circle",{"cx":"17.5","cy":"10.5","r":".5","fill":"currentColor"}],["circle",{"cx":"8.5","cy":"7.5","r":".5","fill":"currentColor"}],["circle",{"cx":"6.5","cy":"12.5","r":".5","fill":"currentColor"}],["path",{"d":"M12 2C6.5 2 2 6.5 2 12s4.5 10 10 10c.926 0 1.648-.746 1.648-1.688 0-.437-.18-.835-.437-1.125-.29-.289-.438-.652-.438-1.125a1.64 1.64 0 0 1 1.668-1.668h1.996c3.051 0 5.555-2.503 5.555-5.554C21.965 6.012 17.461 2 12 2z"}]],"tiCalendarDays":[["path",{"d":"M8 2v4"}],["path",{"d":"M16 2v4"}],["rect",{"width":"18","height":"18","x":"3","y":"4","rx":"2"}],["path",{"d":"M3 10h18"}],["path",{"d":"M8 14h.01"}],["path",{"d":"M12 14h.01"}],["path",{"d":"M16 14h.01"}],["path",{"d":"M8 18h.01"}],["path",{"d":"M12 18h.01"}],["path",{"d":"M16 18h.01"}]],"tiCircleCheck":[["circle",{"cx":"12","cy":"12","r":"10"}],["path",{"d":"m9 12 2 2 4-4"}]],"tiHouse":[["path",{"d":"M15 21v-8a1 1 0 0 0-1-1h-4a1 1 0 0 0-1 1v8"}],["path",{"d":"M3 10a2 2 0 0 1 .709-1.528l7-5.999a2 2 0 0 1 2.582 0l7 5.999A2 2 0 0 1 21 10v9a2 2 0 0 1-2 2H5a2 2 0 0 1-2-2z"}]],"tiListTodo":[["rect",{"x":"3","y":"5","width":"6","height":"6","rx":"1"}],["path",{"d":"m3 17 2 2 4-4"}],["path",{"d":"M13 6h8"}],["path",{"d":"M13 12h8"}],["path",{"d":"M13 18h8"}]],"tiBrain":[["path",{"d":"M12 5a3 3 0 1 0-5.997.125 4 4 0 0 0-2.526 5.77 4 4 0 0 0 .556 6.588A4 4 0 1 0 12 18Z"}],["path",{"d":"M12 5a3 3 0 1 1 5.997.125 4 4 0 0 1 2.526 5.77 4 4 0 0 1-.556 6.588A4 4 0 1 1 12 18Z"}],["path",{"d":"M15 13a4.5 4.5 0 0 1-3-4 4.5 4.5 0 0 1-3 4"}],["path",{"d":"M17.599 6.5a3 3 0 0 0 .399-1.375"}],["path",{"d":"M6.003 5.125A3 3 0 0 0 6.401 6.5"}],["path",{"d":"M3.477 10.896a4 4 0 0 1 .585-.396"}],["path",{"d":"M19.938 10.5a4 4 0 0 1 .585.396"}],["path",{"d":"M6 18a4 4 0 0 1-1.967-.516"}],["path",{"d":"M19.967 17.484A4 4 0 0 1 18 18"}]],"tiSun":[["circle",{"cx":"12","cy":"12","r":"4"}],["path",{"d":"M12 2v2"}],["path",{"d":"M12 20v2"}],["path",{"d":"m4.93 4.93 1.41 1.41"}],["path",{"d":"m17.66 17.66 1.41 1.41"}],["path",{"d":"M2 12h2"}],["path",{"d":"M20 12h2"}],["path",{"d":"m6.34 17.66-1.41 1.41"}],["path",{"d":"m19.07 4.93-1.41 1.41"}]],"settings":[["path",{"d":"M12.22 2h-.44a2 2 0 0 0-2 2v.18a2 2 0 0 1-1 1.73l-.43.25a2 2 0 0 1-2 0l-.15-.08a2 2 0 0 0-2.73.73l-.22.38a2 2 0 0 0 .73 2.73l.15.1a2 2 0 0 1 1 1.72v.51a2 2 0 0 1-1 1.74l-.15.09a2 2 0 0 0-.73 2.73l.22.38a2 2 0 0 0 2.73.73l.15-.08a2 2 0 0 1 2 0l.43.25a2 2 0 0 1 1 1.73V20a2 2 0 0 0 2 2h.44a2 2 0 0 0 2-2v-.18a2 2 0 0 1 1-1.73l.43-.25a2 2 0 0 1 2 0l.15.08a2 2 0 0 0 2.73-.73l.22-.39a2 2 0 0 0-.73-2.73l-.15-.08a2 2 0 0 1-1-1.74v-.5a2 2 0 0 1 1-1.74l.15-.09a2 2 0 0 0 .73-2.73l-.22-.38a2 2 0 0 0-2.73-.73l-.15.08a2 2 0 0 1-2 0l-.43-.25a2 2 0 0 1-1-1.73V4a2 2 0 0 0-2-2z"}],["circle",{"cx":"12","cy":"12","r":"3"}]],"kanban":[["rect",{"width":"18","height":"18","x":"3","y":"3","rx":"2"}],["path",{"d":"M8 7v7"}],["path",{"d":"M12 7v4"}],["path",{"d":"M16 7v9"}]],"template":[["rect",{"width":"18","height":"7","x":"3","y":"3","rx":"1"}],["rect",{"width":"9","height":"7","x":"3","y":"14","rx":"1"}],["rect",{"width":"5","height":"7","x":"16","y":"14","rx":"1"}]]};
 
 export function icon(name, { size = 16, label } = {}) {
   const svg = document.createElementNS(SVG, 'svg');

diff --git a/test/e2e.js b/test/e2e.js
@@ -1378,7 +1378,7 @@ app.whenReady().then(() => setTimeout(async () => {
       assert(await waitFor('!!document.querySelector(".tree-guide.depth-0")', 2000), 'no coloured guide');
     });
 
-    await step(55, 'Settings: calendar and Wispr Flow connections shown, offline', async () => {
+    await step(55, 'Settings (⌘, or the gear): calendar and Wispr Flow connections shown, offline', async () => {
       await press(',', ['meta']);
       assert(await waitFor('!!document.querySelector(".settings-dialog")', 2000), 'settings did not open');
       assert(await waitFor('/Not connected/.test(document.querySelector("[data-conn=wispr] .conn-side")?.textContent || "")', 2000), 'no Wispr connection state');
@@ -1390,6 +1390,11 @@ app.whenReady().then(() => setTimeout(async () => {
       assert(!fs.existsSync(path.join(tmp, 'wispr.bin')), 'a sign-in was stored');
       await press('Escape');
       assert(await waitFor('!document.querySelector(".settings-dialog")', 2000), 'Esc did not close settings');
+      // The gear next to the notes folder opens it too.
+      await clickSel('#settings-btn');
+      assert(await waitFor('!!document.querySelector(".settings-dialog")', 2000), 'the Settings button did not open settings');
+      await press('Escape');
+      assert(await waitFor('!document.querySelector(".settings-dialog")', 2000), 'settings did not close');
     });
 
     await step(56, 'Calendar events: Planner grid, all-day band, details, join, Home', async () => {

diff --git a/index.html b/index.html
@@ -13,10 +13,13 @@
   <aside class="sidebar" id="sidebar">
     <div class="titlebar-room" aria-hidden="true"></div>
     <div id="side" class="side"></div>
-    <button id="vault-btn" class="vault-btn" type="button" aria-haspopup="menu" data-menu-anchor="vault"
-      title="The folder your notes are stored in. Click to open another folder (e.g. an Obsidian vault).">
-      <span class="vault-label">Notes folder</span><span id="vault-name" class="vault-name">…</span>
-    </button>
+    <div class="vault-row">
+      <button id="vault-btn" class="vault-btn" type="button" aria-haspopup="menu" data-menu-anchor="vault"
+        title="The folder your notes are stored in. Click to open another folder (e.g. an Obsidian vault).">
+        <span class="vault-label">Notes folder</span><span id="vault-name" class="vault-name">…</span>
+      </button>
+      <button id="settings-btn" class="settings-btn" type="button" aria-label="Settings" title="Settings: calendars, Wispr Flow (⌘,)"></button>
+    </div>
     <div class="side-footer" aria-label="Keyboard">
       <button id="foot-open" class="foot-btn" type="button" title="Jump to any note">Open <kbd>⌘O</kbd></button>
       <button id="foot-commands" class="foot-btn" type="button" title="Every command, searchable">Commands <kbd>⌘P</kbd></button>

diff --git a/src/styles.css b/src/styles.css
@@ -768,6 +768,12 @@ input, textarea, select { font: inherit; color: inherit; }
 .pane-btn, .sidebar-toggle, .icon-btn-sq { display: inline-flex; align-items: center; gap: 6px; }
 .nav-btn { padding: 4px 6px; }
 .vault-btn { flex-direction: row; align-items: center; gap: 10px; }
+/* The notes folder with Settings beside it, like Obsidian's vault switcher. */
+.vault-row { display: flex; align-items: stretch; border-top: 1px solid var(--line); }
+.vault-row .vault-btn { flex: 1; min-width: 0; border-top: none; }
+.settings-btn { flex: none; align-self: center; display: inline-flex; align-items: center; justify-content: center; width: 32px; height: 32px; margin-right: 8px; background: transparent; border: none; border-radius: 6px; color: var(--muted); cursor: pointer; }
+.settings-btn:hover { background: var(--line); color: var(--text); }
+.settings-btn:focus-visible { outline: 2px solid var(--accent); outline-offset: 1px; }
 .vault-btn .icon { color: var(--muted); }
 .vault-text { display: flex; flex-direction: column; min-width: 0; }
 

diff --git a/src/renderer.js b/src/renderer.js
@@ -1109,6 +1109,7 @@ function decorateStatic() {
   put('nav-back', 'back');
   put('nav-forward', 'forward');
   put('rightbar-btn', 'details', true);
+  put('settings-btn', 'settings');
   const v = document.getElementById('vault-btn');
   const text = elem('span', 'vault-text');
   text.append(...v.childNodes);
@@ -1118,6 +1119,7 @@ decorateStatic();
 
 // Sidebar footer: the keyboard ways in, always visible.
 document.getElementById('foot-open').addEventListener('click', () => openQuickSwitcher());
+document.getElementById('settings-btn').addEventListener('click', () => openSettings());
 document.getElementById('foot-commands').addEventListener('click', () => openCommandPalette());
 document.getElementById('foot-keys').addEventListener('click', () => showShortcuts());
 

diff --git a/README.md b/README.md
@@ -134,6 +134,8 @@ yet? Home offers to open the Planner.
 
 <p align="center"><img src="docs/screenshots/graph.png" width="85%" alt="The graph of notes and links"></p>
 
+<p align="center"><img src="docs/screenshots/commands.png" width="85%" alt="The command palette: every command, searchable, with its shortcut"></p>
+
 ## Install it on a Mac
 
 **Needs:** macOS 12 Monterey or later, Apple silicon or Intel.
@@ -214,7 +216,7 @@ On Windows, Ctrl takes the place of ⌘ and Alt of ⌥.
 | ⌘F | Search |
 | ⌘G · ⇧⌘G | Graph · local graph |
 | ⌘E | Edit a note's raw Markdown |
-| ⌘, | Settings (calendar and Wispr Flow connections) |
+| ⌘, | Settings (calendar and Wispr Flow connections), also the gear next to the notes folder |
 | ⇧⌘T | Insert a template |
 | ⌘[ · ⌘] | Back · forward |
 | ⌘\\ · ⇧⌘\\ | Sidebar · Details panel |
